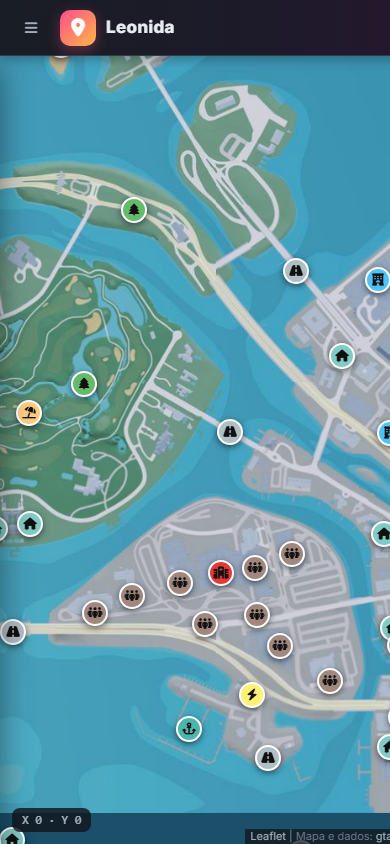
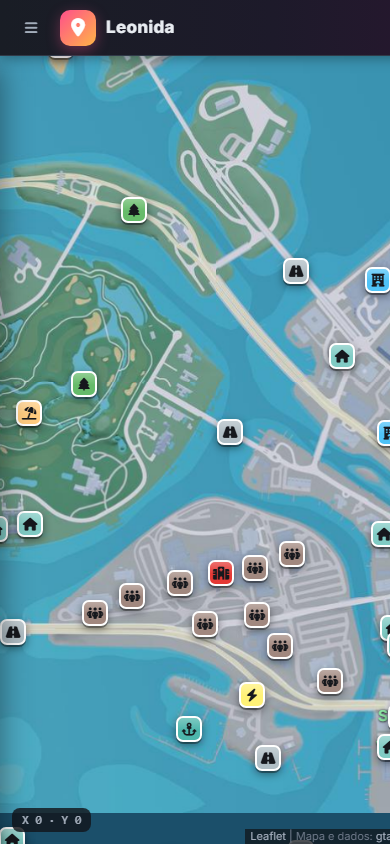
Ícones quadrados e nomes de regiões e bairros no mapa
- Marcadores em estilo quadrado com borda branca e glifo escuro
- Nomes de regiões (maiúsculas, brancos) e bairros (verdes) calculados
  a partir dos endereços do gtadb, acima dos marcadores e sem bloquear cliques
- Chave "Mostrar nomes no mapa" no painel
- Capturas do README atualizadas

diff --git a/js/app.js b/js/app.js
@@ -205,7 +205,48 @@
     const z = mapa.getZoom();
     mapa.getContainer().classList.toggle('zoom-longe', z < CONFIG.zoomLonge);
     mapa.getContainer().classList.toggle('zoom-medio', z >= CONFIG.zoomLonge && z < CONFIG.zoomLonge + 1.5);
+    mapa.getContainer().classList.toggle('zoom-perto', z >= 4);
   }
+
+  /* ================= Nomes de regiões e bairros ================= */
+  // Posição = mediana dos locais que citam cada região/bairro no endereço (gtadb).
+  // Acima dos marcadores (600) e abaixo dos popups (700); não bloqueia cliques
+  const painelRotulos = mapa.createPane('rotulos');
+  painelRotulos.style.zIndex = 650;
+  painelRotulos.style.pointerEvents = 'none';
+  function criarRotulos(dados) {
+    const grupos = { regiao: new Map(), bairro: new Map() };
+    const add = (tipo, nome, x, y) => {
+      if (!nome || nome === '?' || nome === 'Leonida') return;
+      if (!grupos[tipo].has(nome)) grupos[tipo].set(nome, []);
+      grupos[tipo].get(nome).push([x, y]);
+    };
+    Object.values(dados).forEach((v) => {
+      if (!Array.isArray(v[1]) || v[1].length !== 2) return;
+      const p = String(v[0] || '').split(', ');
+      if (p.length >= 2) add('regiao', p[p.length - 1], v[1][0], v[1][1]);
+      if (p.length >= 3) add('bairro', p[p.length - 2], v[1][0], v[1][1]);
+    });
+    const mediana = (a) => { const s = a.slice().sort((m, n) => m - n); return s[Math.floor(s.length / 2)]; };
+    const nomesRegiao = new Set(grupos.regiao.keys());
+    const camadaRotulos = L.layerGroup().addTo(mapa);
+    ['regiao', 'bairro'].forEach((tipo) => grupos[tipo].forEach((pts, nome) => {
+      if (pts.length < (tipo === 'regiao' ? 5 : 3)) return;
+      if (tipo === 'bairro' && nomesRegiao.has(nome)) return;
+      const x = mediana(pts.map((q) => q[0])), y = mediana(pts.map((q) => q[1]));
+      L.marker(ll(x, y), {
+        pane: 'rotulos', interactive: false, keyboard: false,
+        icon: L.divIcon({ className: `rotulo rotulo-${tipo}`, html: `<span>${nome.replace(/</g, '&lt;')}</span>`, iconSize: [0, 0] })
+      }).addTo(camadaRotulos);
+    }));
+  }
+  const chkRotulos = $('#chk-rotulos');
+  chkRotulos.checked = store.get('rotulos', true);
+  mapa.getContainer().classList.toggle('sem-rotulos', !chkRotulos.checked);
+  chkRotulos.addEventListener('change', () => {
+    store.set('rotulos', chkRotulos.checked);
+    mapa.getContainer().classList.toggle('sem-rotulos', !chkRotulos.checked);
+  });
 
   /* ================= Popup ================= */
   function popupLocal(loc) {
@@ -517,6 +558,7 @@
         .map(([id, v]) => normalizarLocal(id, v));
       LOCAIS.forEach((l) => { PORID.set(l.id, l); contagem[l.cat.id] = (contagem[l.cat.id] || 0) + 1; });
       renderCategorias();
+      criarRotulos(dados);
       if (h.loc && PORID.has(h.loc)) irPara(h.loc, false);
       atualizarMarcadores();
     })

diff --git a/css/estilo.css b/css/estilo.css
@@ -184,8 +184,10 @@ body.painel-fechado #mapa { left: 0; }
 .pin { cursor: pointer; }
 .pin-c {
   position: relative; display: grid; place-items: center; width: 100%; height: 100%;
-  border-radius: 50%; background: var(--c); color: #111; font-size: 12px;
-  border: 2px solid #fff; box-shadow: 0 2px 6px rgba(0, 0, 0, .55);
+  border-radius: 7px; background: var(--c); color: #16181d; font-size: 13px;
+  border: 2px solid #fff;
+  box-shadow: 0 2px 0 rgba(0, 0, 0, .35), 0 3px 8px rgba(0, 0, 0, .45);
+  background-image: linear-gradient(180deg, rgba(255, 255, 255, .28), rgba(255, 255, 255, 0) 55%);
   transition: transform .12s;
 }
 .pin:hover .pin-c { transform: scale(1.18); }
@@ -202,7 +204,22 @@ body.painel-fechado #mapa { left: 0; }
 .zoom-medio .pin:hover .pin-c { transform: scale(.95); }
 .zoom-longe .pin-c i, .zoom-longe .pin-ok { display: none; }
 
-.pin-nota .pin-c { background: var(--acento-2); border-radius: 50% 50% 50% 0; transform: rotate(-45deg); }
+.pin-nota .pin-c { background-color: var(--acento-2); border-radius: 50% 50% 50% 0; transform: rotate(-45deg); }
+
+/* Nomes de regiões e bairros sobre o mapa */
+.rotulo { pointer-events: none !important; white-space: nowrap; }
+.rotulo span {
+  display: inline-block; transform: translate(-50%, -50%);
+  text-shadow: 0 0 3px rgba(0, 0, 0, .55), 0 1px 2px rgba(0, 0, 0, .6);
+}
+.rotulo-regiao span {
+  color: #fff; font-weight: 800; font-size: 22px; letter-spacing: .5px; text-transform: uppercase;
+  font-stretch: condensed; -webkit-text-stroke: .6px rgba(0, 0, 0, .35);
+}
+.rotulo-bairro span { color: #8ee6a4; font-weight: 600; font-size: 15px; }
+.sem-rotulos .rotulo, .zoom-longe .rotulo-bairro { display: none; }
+.zoom-longe .rotulo-regiao span { font-size: 16px; }
+.zoom-perto .rotulo-regiao { display: none; }
 .pin-nota .pin-c i { transform: rotate(45deg); }
 .pin-nota:hover .pin-c { transform: rotate(-45deg) scale(1.15); }
 
@@ -214,7 +231,8 @@ body.painel-fechado #mapa { left: 0; }
 .leaflet-container a.leaflet-popup-close-button:hover { color: #fff; }
 
 .pp-cab { display: flex; align-items: flex-start; gap: 10px; padding: 14px 36px 10px 14px; }
-.pp-ico { width: 32px; height: 32px; font-size: 14px; }
+.pp-ico { width: 32px; height: 32px; font-size: 14px; border-radius: 8px; border: 2px solid #fff; }
+.cat-ico, .res-ico { border-radius: 6px; }
 .pp-cab h3 { margin: 0; font-size: 15px; font-weight: 700; line-height: 1.25; }
 .pp-sub { display: block; color: var(--texto-2); font-size: 12px; margin-top: 2px; }
 .pp-cat { display: inline-block; margin-top: 4px; font-size: 11px; font-weight: 700; color: var(--c); text-transform: uppercase; letter-spacing: .6px; }

diff --git a/index.html b/index.html
@@ -52,6 +52,11 @@
         <span class="chave-trilho"></span>
         Ocultar locais encontrados
       </label>
+      <label class="chave">
+        <input type="checkbox" id="chk-rotulos" checked>
+        <span class="chave-trilho"></span>
+        Mostrar nomes no mapa
+      </label>
 
       <div id="resultados" class="resultados" hidden></div>
       <div id="categorias"></div>
